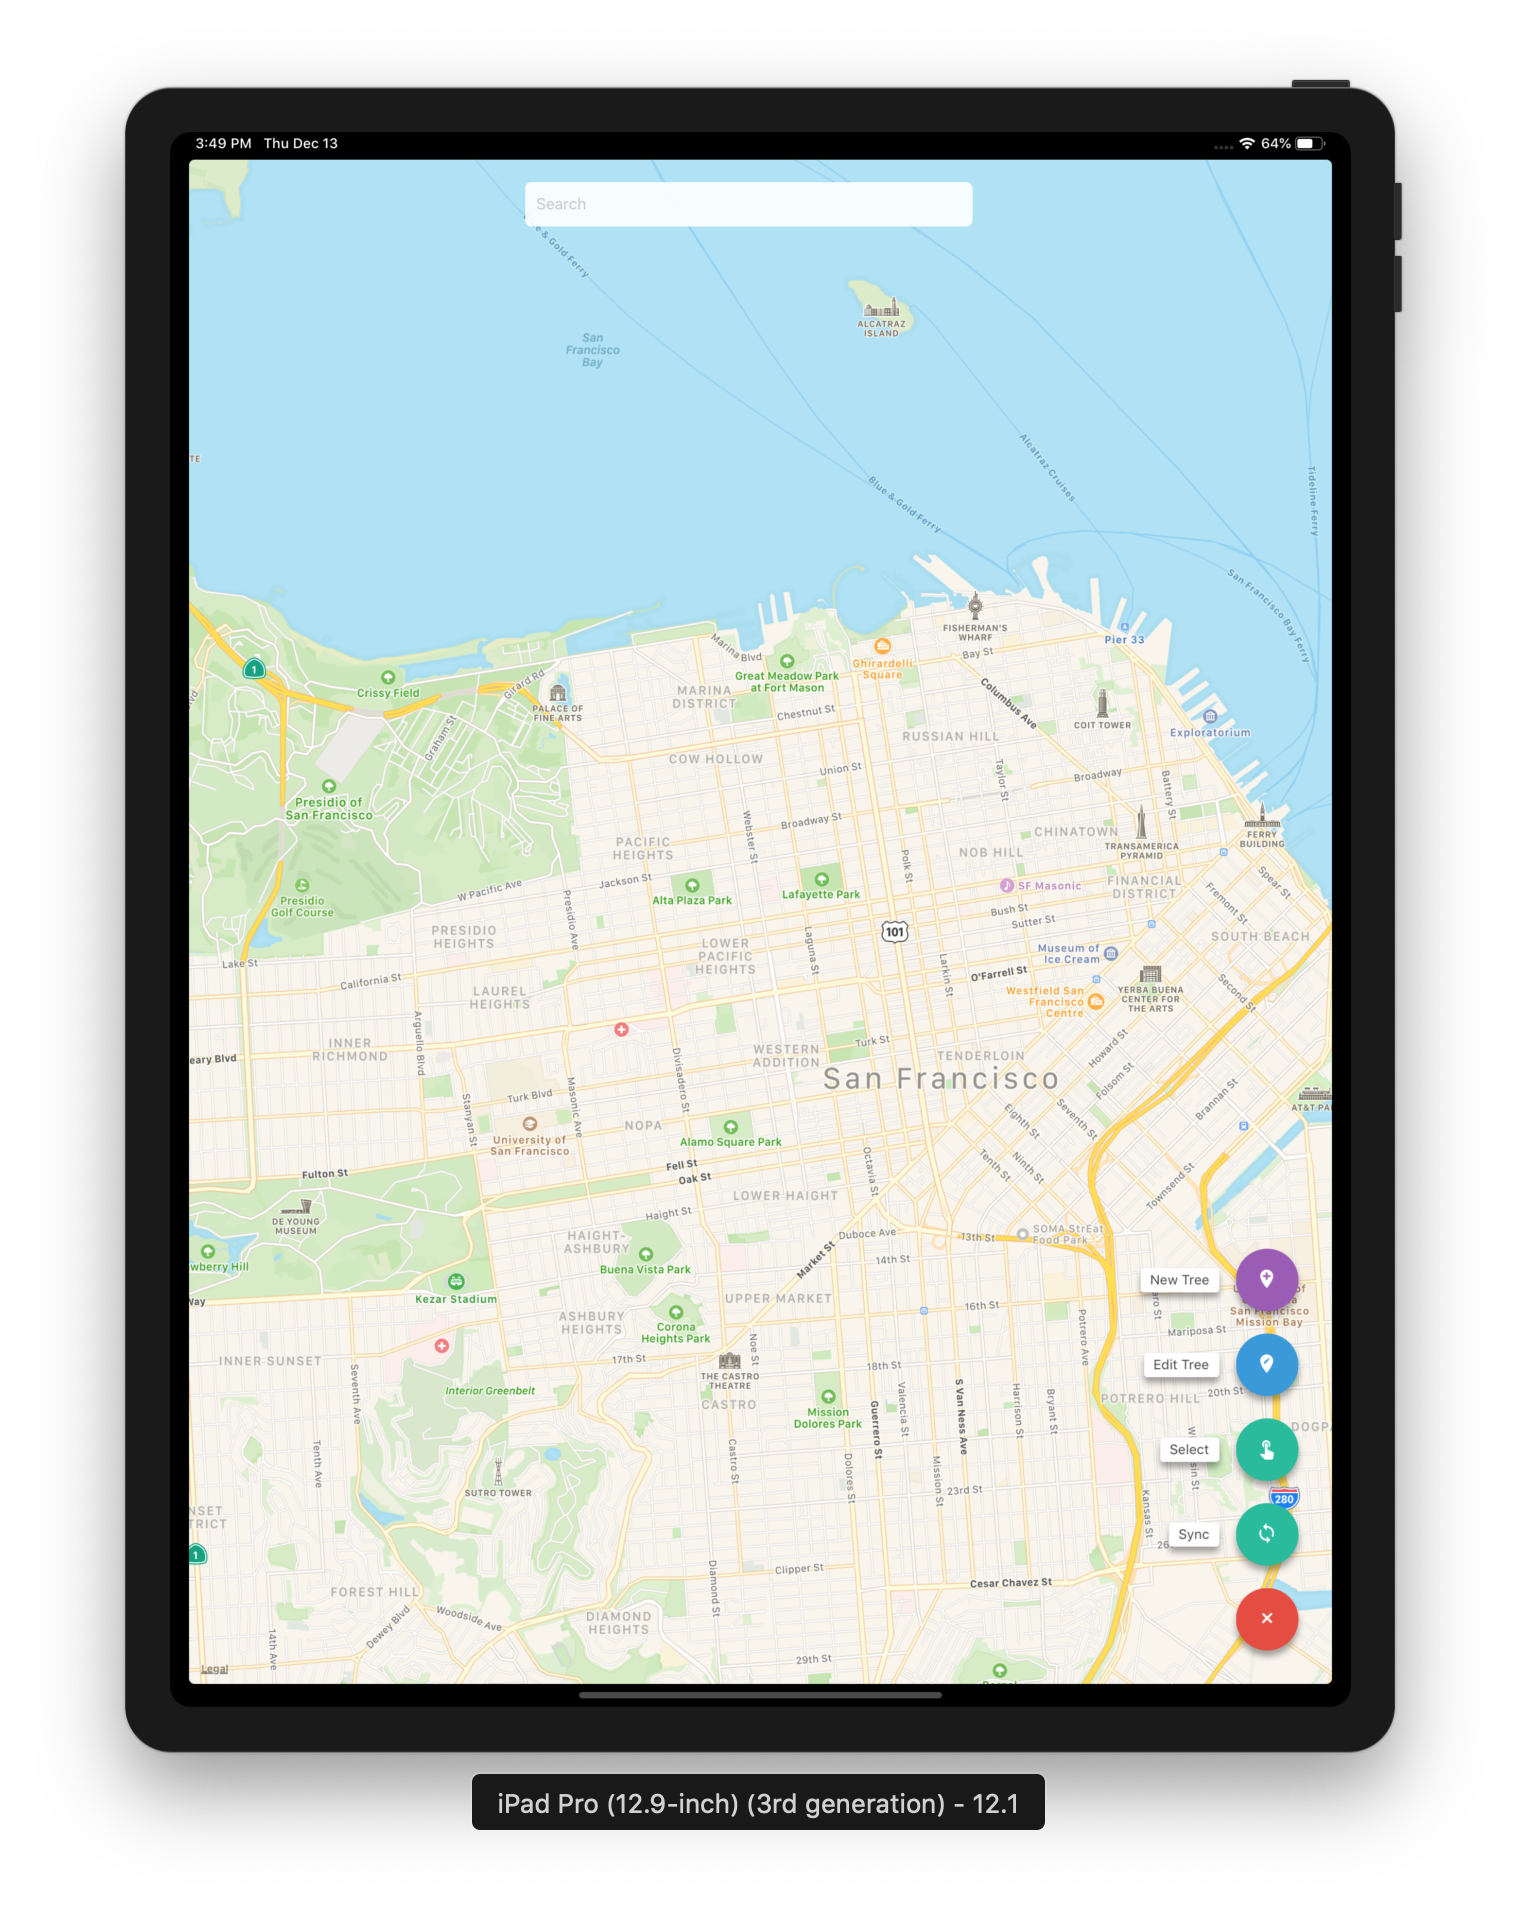
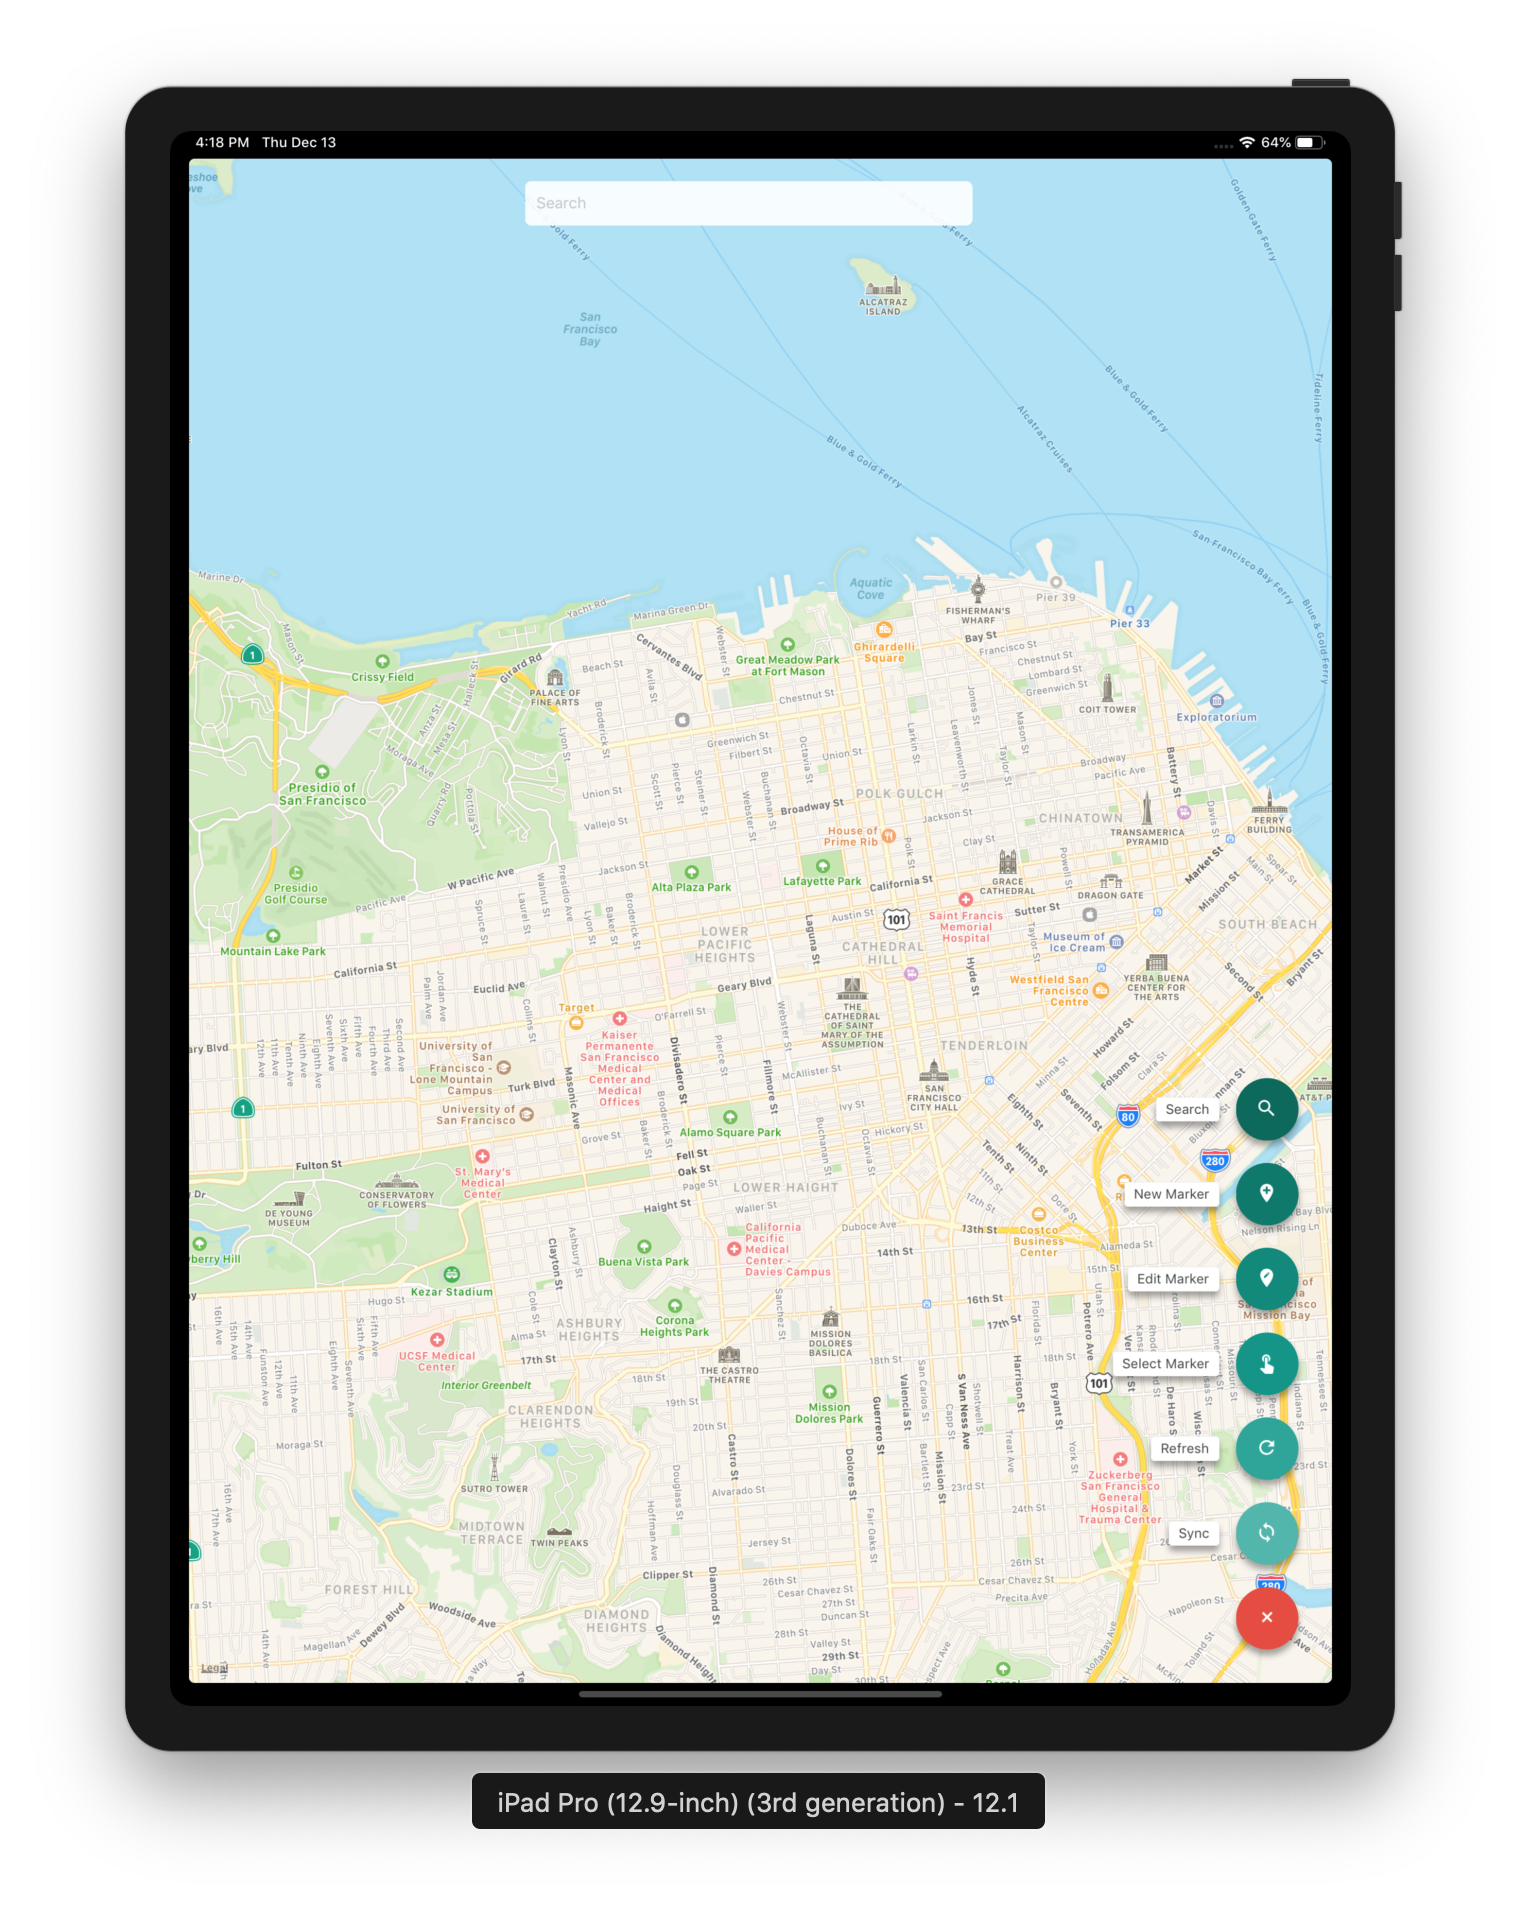
change button colors/titles

diff --git a/App.js b/App.js
@@ -56,34 +56,52 @@ export default class App extends React.Component {
         </MapView.Callout>
         <ActionButton buttonColor="rgba(231,76,60,1)">
           <ActionButton.Item 
-            buttonColor='#9b59b6' 
-            title="New Tree" 
-            onPress={() => {Alert.alert('You tapped the New Tree button!');}}>
+            buttonColor='#00695C' 
+            title="Search" 
+            onPress={() => {Alert.alert('You tapped the Search button!');}}>
+              <Icon 
+                name="search" 
+                style={styles.actionButtonIcon} 
+              />
+          </ActionButton.Item>
+          <ActionButton.Item 
+            buttonColor='#00796B' 
+            title="New Marker" 
+            onPress={() => {Alert.alert('You tapped the New Marker button!');}}>
               <Icon 
                 name="add-location" 
                 style={styles.actionButtonIcon} 
               />
           </ActionButton.Item>
           <ActionButton.Item 
-            buttonColor='#3498db' 
-            title="Edit Tree" 
-            onPress={() => {Alert.alert('You tapped the Edit Tree button!');}}>
+            buttonColor='#00897B' 
+            title="Edit Marker" 
+            onPress={() => {Alert.alert('You tapped the Edit Marker button!');}}>
               <Icon 
                 name="edit-location" 
                 style={styles.actionButtonIcon} 
               />
           </ActionButton.Item>
           <ActionButton.Item 
-            buttonColor='#1abc9c' 
-            title="Select" 
-            onPress={() => {Alert.alert('You tapped the Select button!');}}>
+            buttonColor='#009688' 
+            title="Select Marker" 
+            onPress={() => {Alert.alert('You tapped the Select Marker button!');}}>
               <Icon 
                 name="touch-app" 
                 style={styles.actionButtonIcon} 
               />
           </ActionButton.Item>
           <ActionButton.Item 
-            buttonColor='#1abc9c' 
+            buttonColor='#26A69A' 
+            title="Refresh" 
+            onPress={() => {Alert.alert('You tapped the Refresh button!');}}>
+              <Icon 
+                name="refresh" 
+                style={styles.actionButtonIcon} 
+              />
+          </ActionButton.Item>
+          <ActionButton.Item 
+            buttonColor='#4DB6AC' 
             title="Sync" 
             onPress={() => {Alert.alert('You tapped the Sync button!');}}>
               <Icon 
